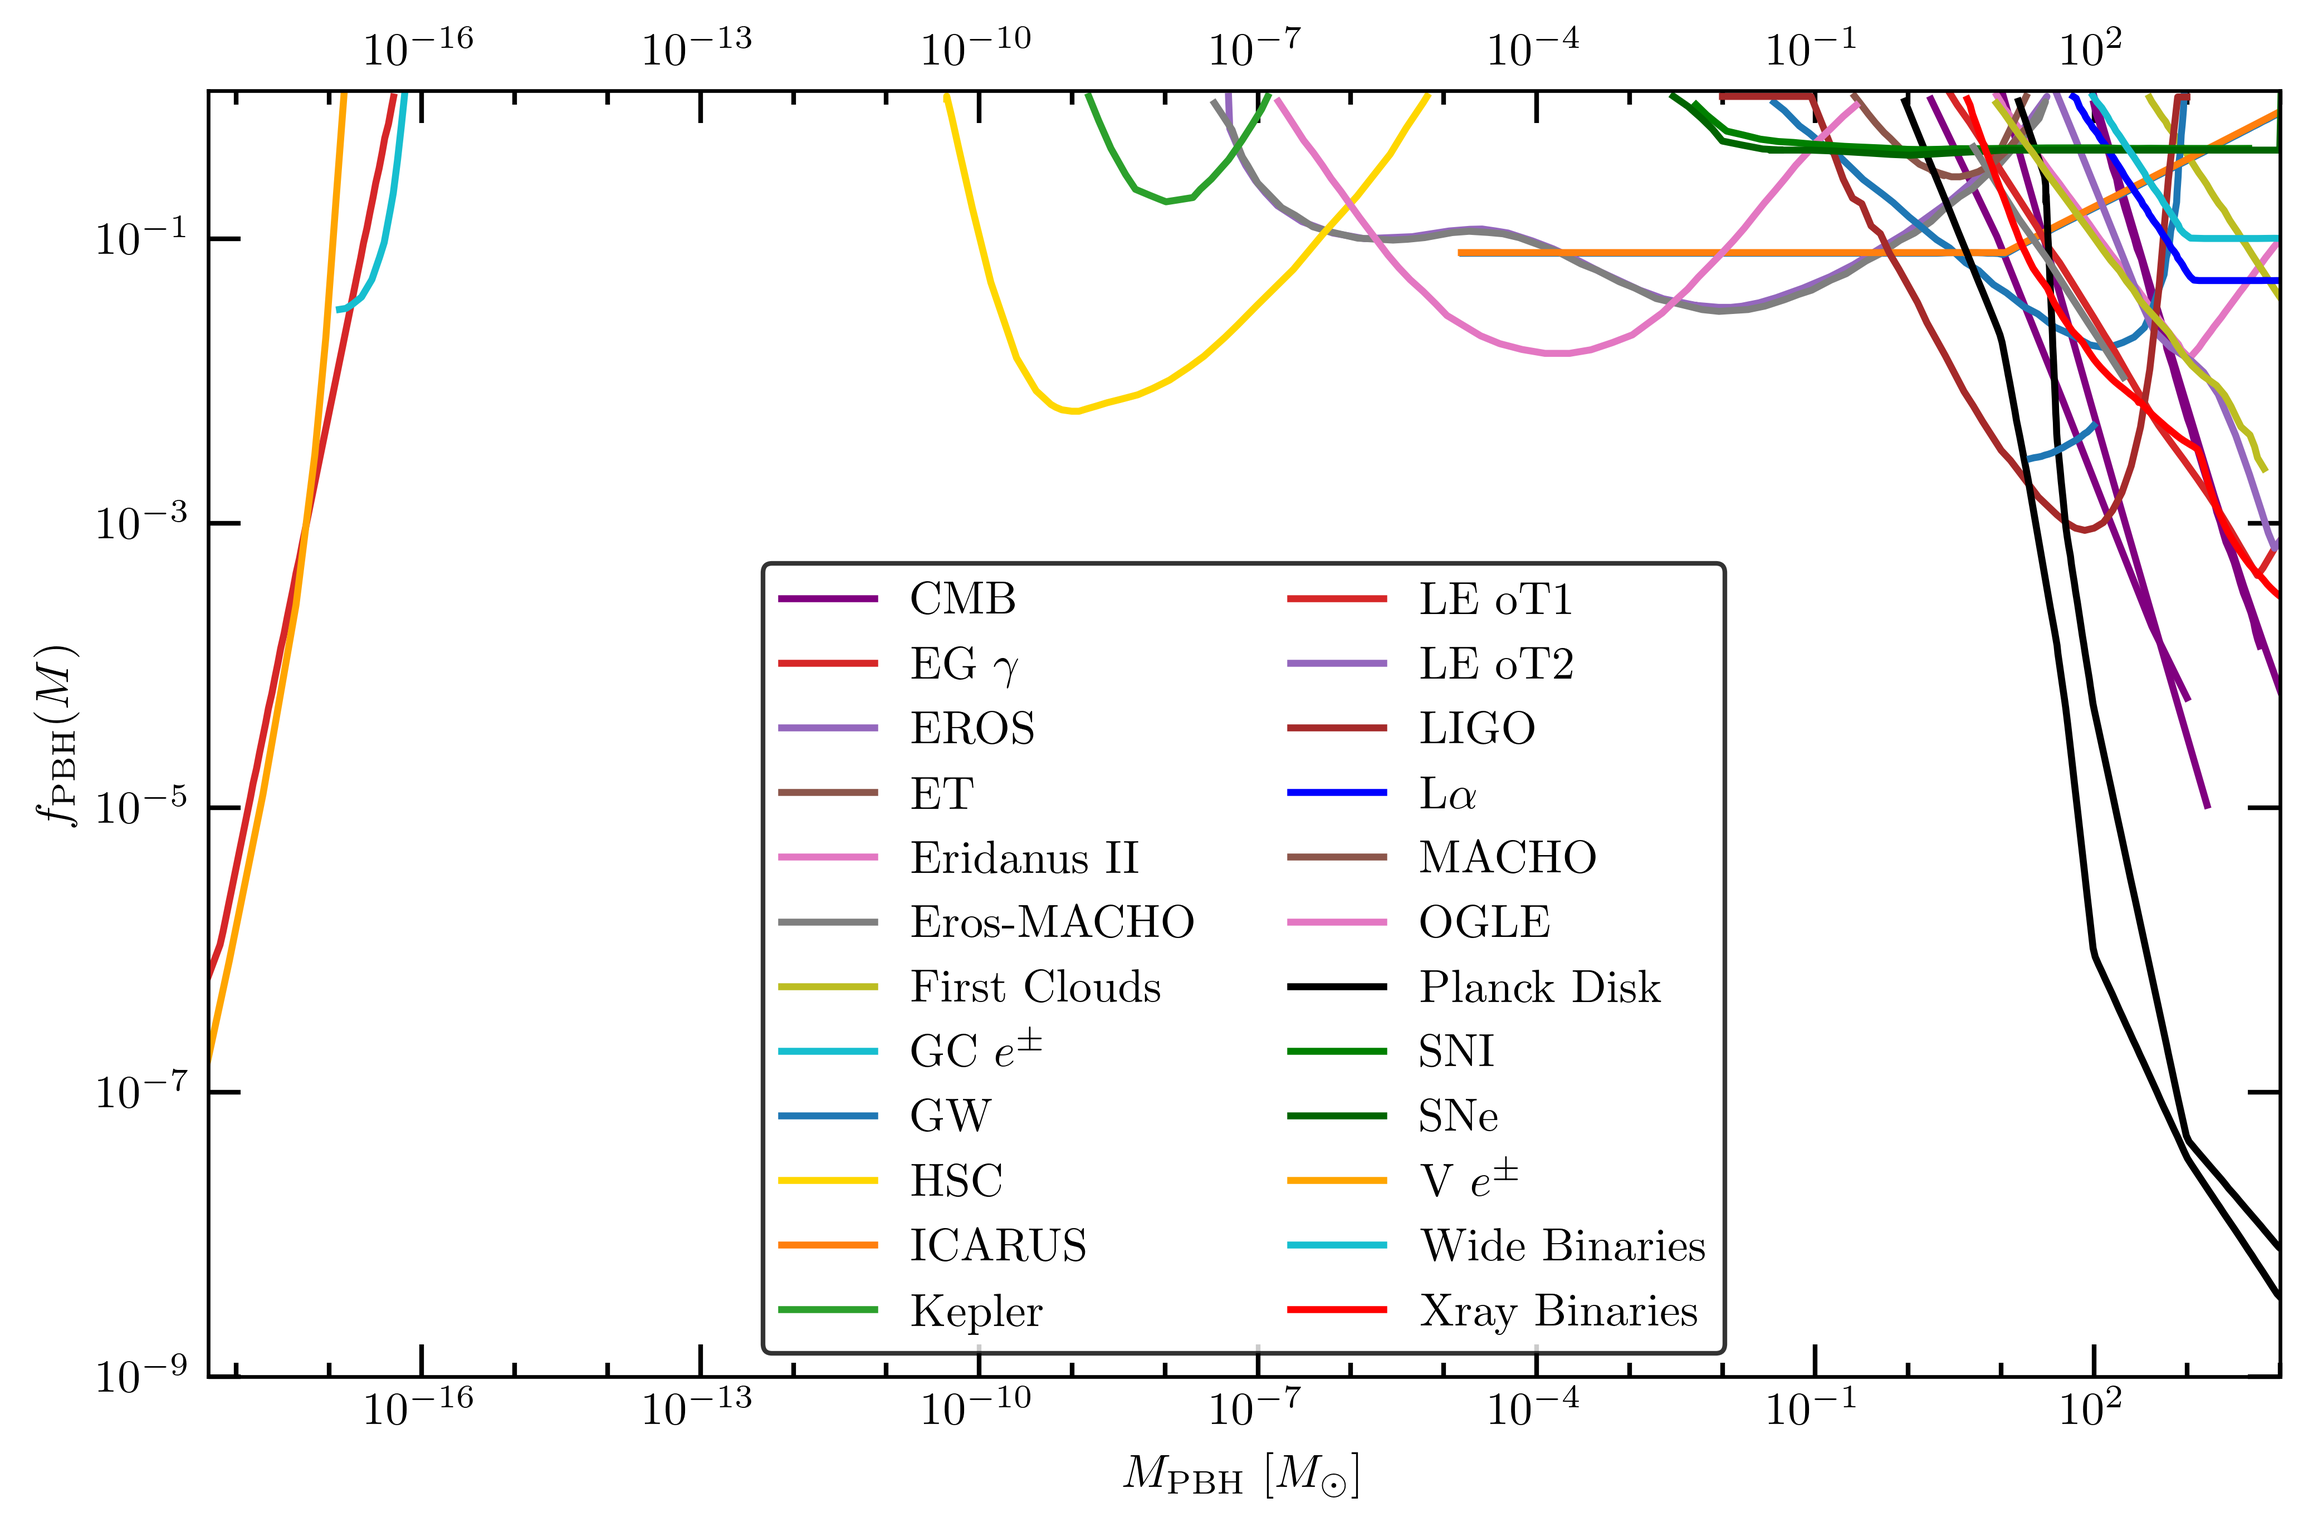
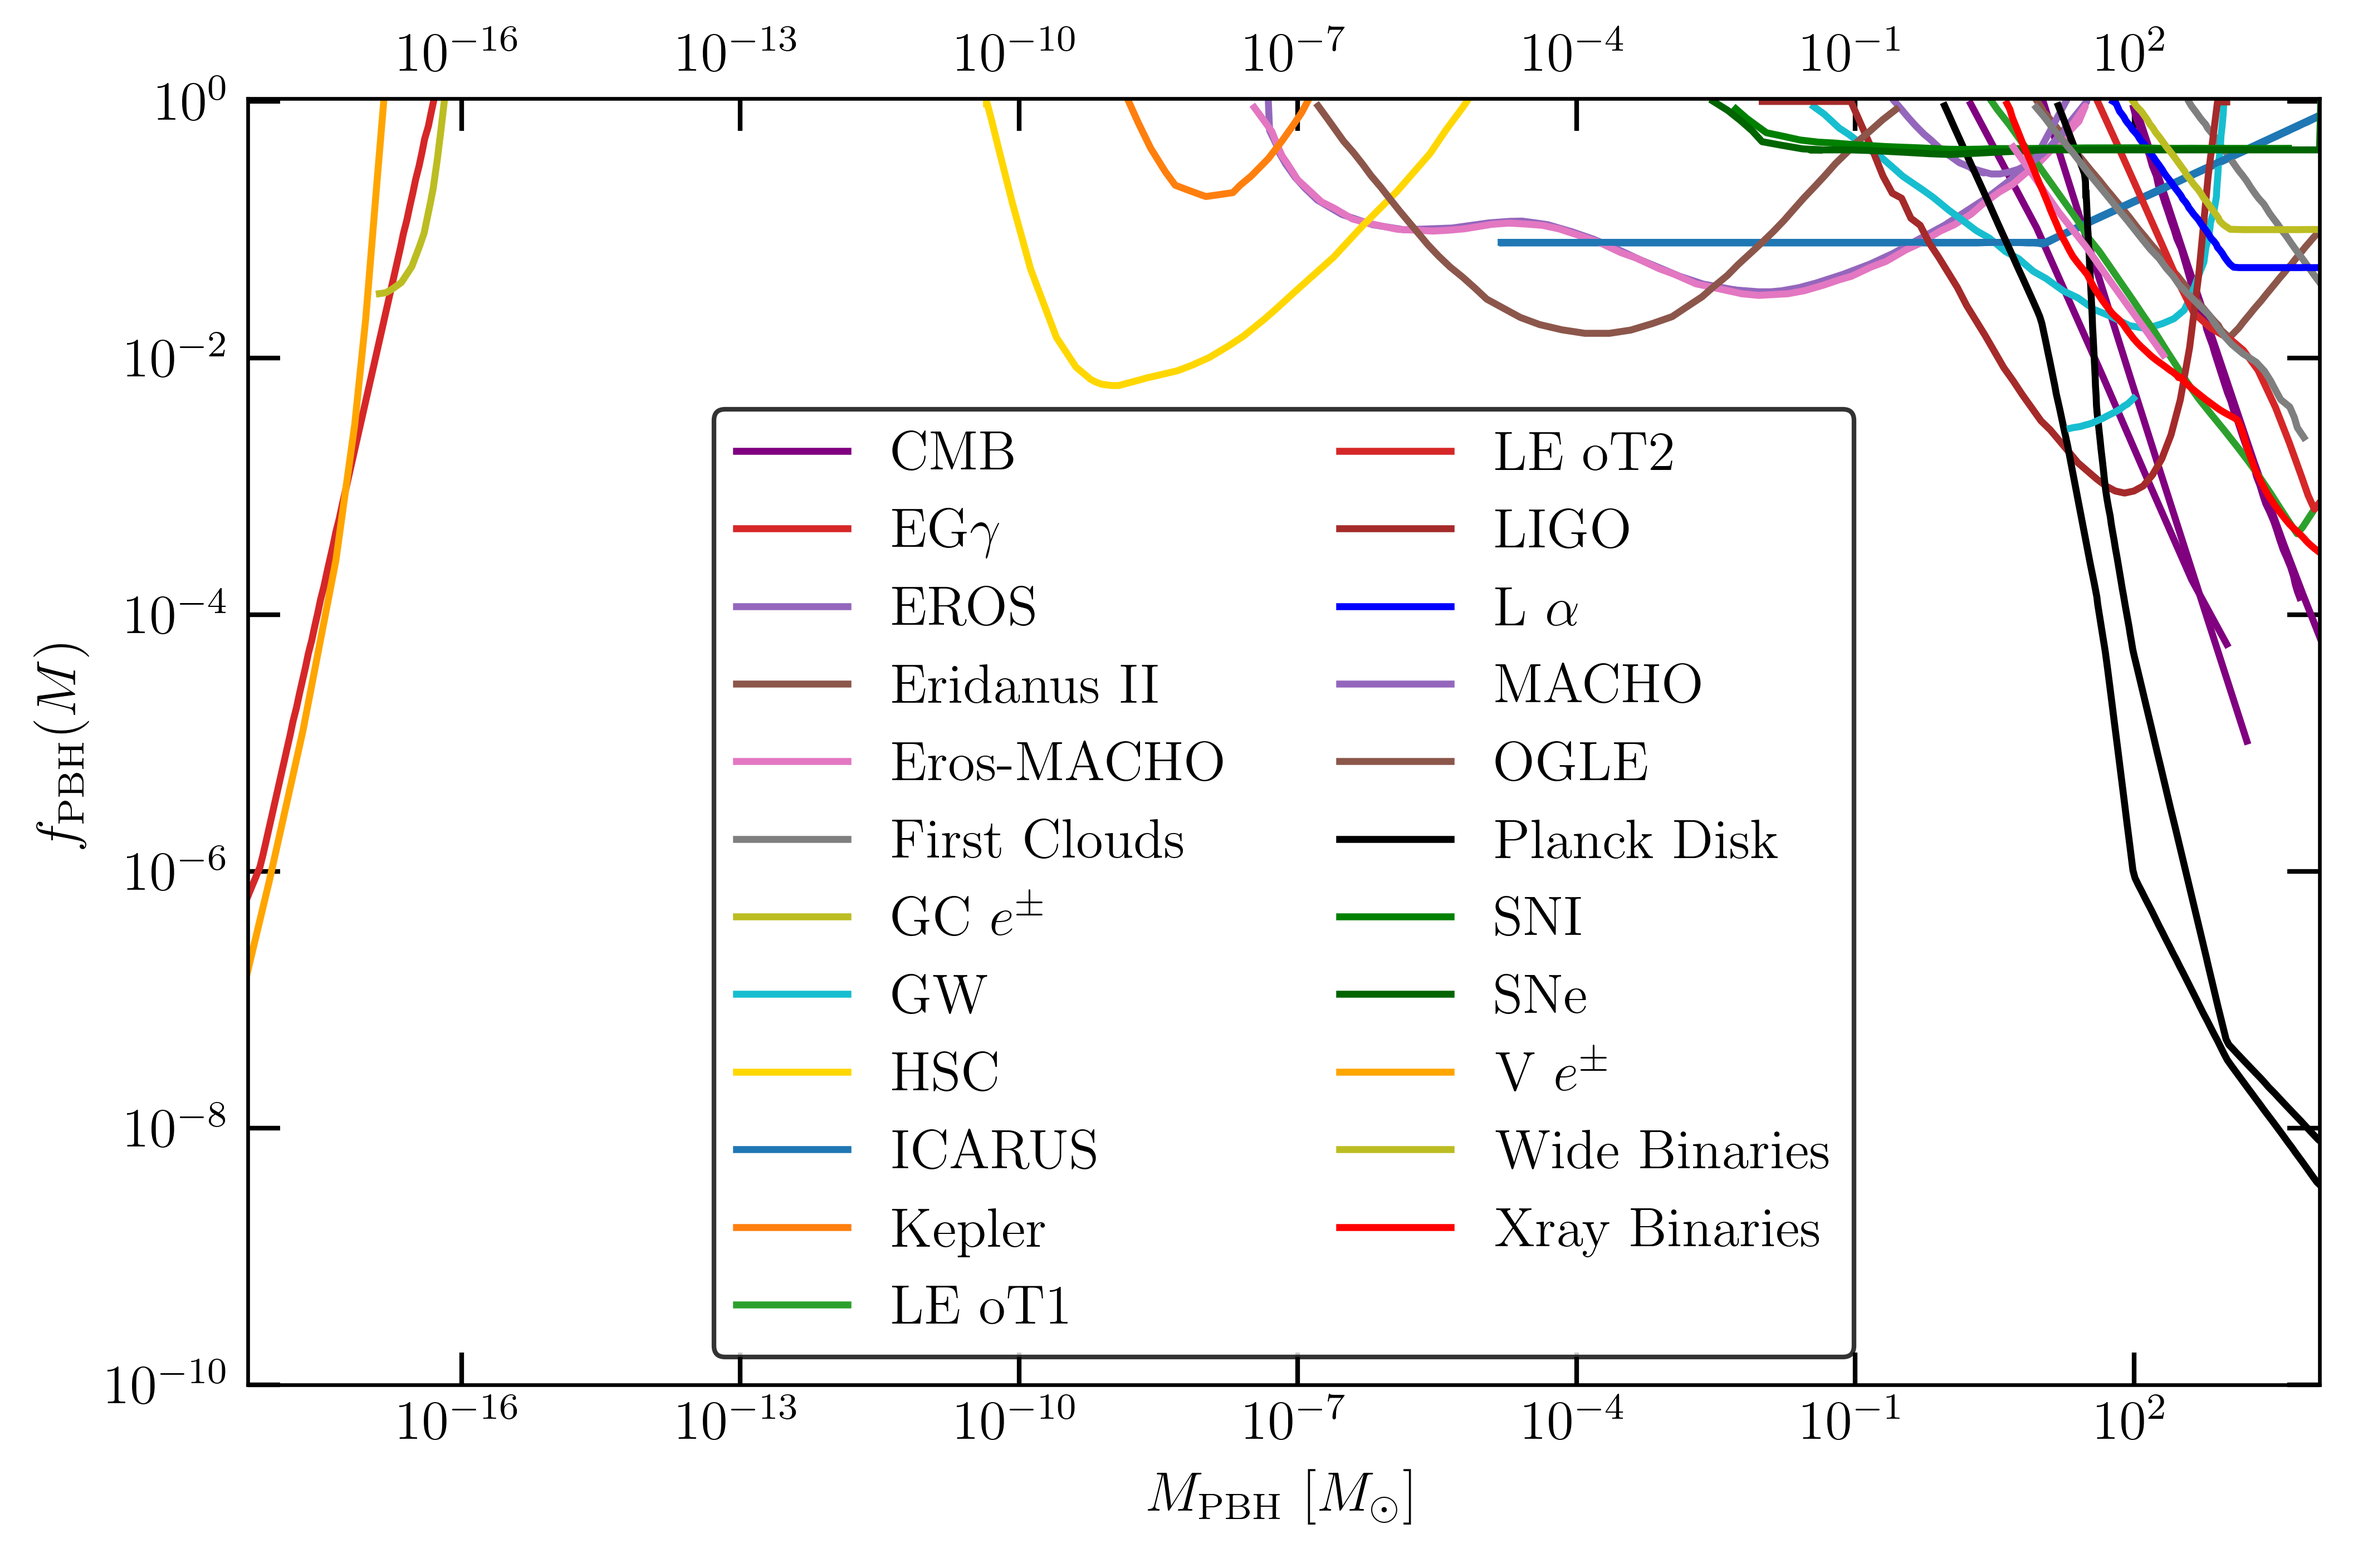
update Bounds plot

diff --git a/LISA_BoundsPBH/PlotBounds.py b/LISA_BoundsPBH/PlotBounds.py
@@ -10,8 +10,11 @@ print(FILEPATH)
 
 #Default values, overridden if you pass in command line arguments
 listfile_default = FILEPATH + "data_bounds_all.dat" 
-outfile_default = FILEPATH + "plots/PBH_bounds.png"
+# outfile_default = FILEPATH + "plots/PBH_bounds.png"
 datadir =  FILEPATH + "Data" 
+
+outfile = FILEPATH + "plots/PBH_bounds.png"
+outfile2 = FILEPATH + "plots/PBH_bounds_summary.png"
 
 from params_bounds import *
 
@@ -20,12 +23,12 @@ from params_bounds import *
 parser = argparse.ArgumentParser(description='...')
 parser.add_argument('-lf','--listfile', help='File containing list of bounds to include',
                     type=str, default=None)
-parser.add_argument('-of','--outfile', help='Filename (with extension) of output plot', 
-                    type=str, default=outfile_default)
+# parser.add_argument('-of','--outfile', help='Filename (with extension) of output plot', 
+#                     type=str, default=outfile_default)
 
 args = parser.parse_args()
 listfile = args.listfile
-outfile = args.outfile
+# outfile = args.outfile
 
 sel_files = np.loadtxt(listfile, dtype=str, unpack=True) if listfile else sel_files
 
@@ -33,15 +36,9 @@ print(f"listfile is  {listfile}")
 print(f"selected data:   {sel_files}")
 
 
+fig, ax = plt.subplots(1,1, figsize=(8,5))
 
-
-plt.figure(figsize=(8,5))
-
-ax = plt.gca()
-
-ax.set_xscale('log')
-ax.set_yscale('log')
-
+fig2, ax2 = plt.subplots(1,1, figsize=(8,5))
 
 
 for bound in sel_files:
@@ -62,32 +59,41 @@ for bound in sel_files:
         # else:
         #     plt.plot(x,y,  label=lbl)
             
-        plt.plot(x,y,  label=lbl, color=color)
+        ax.plot(x,y,  label=lbl, color=color)
+        ax2.fill_between(x, y, y2=1, color="gray", interpolate=True) 
     
     except Exception as e:
         print(f" !!!! dataset {f_bound} has been skipt >> Error:\n {e}")
     
-    
+
+
 
 
 #Plotting stuff
 
 # plt.axhspan(1, 1.5, facecolor='grey', alpha=0.5)
 
-plt.legend(ncol=2)
-   
-plt.ylim(1e-9, 1.1)
-plt.xlim(5e-19, 1e4)
+ax.legend(ncol=2)
 
-ax.tick_params(axis="x", bottom=True, top=True, labelbottom=True, labeltop=True)    
-ax.set_xticks(np.logspace(-18, 4, 23), minor=True)
-ax.set_xticklabels([], minor=True)
-    
-plt.xlabel(r'$M_\mathrm{PBH}$ [$M_\odot$]')
-plt.ylabel(r'$f_\mathrm{PBH} (M)$')
+for axs in [ax, ax2]:   
+    axs.set_ylim(1e-10, 1.05)
+    axs.set_xlim(5e-19, 1e4)
 
-plt.savefig(outfile, bbox_inches='tight', dpi=600)
+    axs.tick_params(axis="x", bottom=True, top=True, labelbottom=True, labeltop=True)    
+    axs.set_xticks(np.logspace(-18, 4, 23), minor=True)
+    axs.set_xticklabels([], minor=True)
+        
+    axs.set_xlabel(r'$M_\mathrm{PBH}$ [$M_\odot$]')
+    axs.set_ylabel(r'$f_\mathrm{PBH} (M)$')
+
+    axs.set_xscale('log')
+    axs.set_yscale('log')
+
+
+
+fig.savefig(outfile, bbox_inches='tight', dpi=600)
+fig2.savefig(outfile2, bbox_inches='tight', dpi=600)
     
-# plt.show()
+# fig.show()
 
     

diff --git a/LISA_BoundsPBH/params_bounds.py b/LISA_BoundsPBH/params_bounds.py
@@ -3,7 +3,7 @@ import argparse
 
 
 #Specify the plot style
-mpl.rcParams.update({'font.size': 10,'font.family':'serif'})
+mpl.rcParams.update({'font.size': 12,'font.family':'serif'})
 mpl.rcParams['xtick.major.size'] = 7
 mpl.rcParams['xtick.major.width'] = 1
 mpl.rcParams['xtick.minor.size'] = 3
@@ -37,12 +37,12 @@ sel_files = [
         ["DG.txt",                None,         None ],
         ## ["DLFR.txt",  ],
         ["DynamicalFriction.txt", None,         None ],
-        ["EGgamma.txt",          r"$\mathrm{EG}$ $\gamma$",     None ],
+        ["EGgamma.txt",          r"$\mathrm{EG} \gamma$",     None ],
         ## ["EGgamma_v2.txt",  ],
         ## ["EPTA.txt",  ],
         ## ["EPTAALL.txt",  ],
         ["EROS.txt",              "EROS",        None   ],
-        ["ET.txt",                 "ET",         None   ],
+        # ["ET.txt",                 "ET",         None   ],
         ["EridanusII.txt",      "Eridanus II",   None   ],
         ["Eros-Macho.txt",      "Eros-MACHO",    None   ], 
         ["FirstClouds.txt",     "First Clouds",  None   ],
@@ -61,7 +61,7 @@ sel_files = [
         ## ["LIGO.txt",  ],
         ## ["LIGO2.txt",  ],
         ["LIGOconstraintMono.txt",      "LIGO",     "brown"],
-        ["LalphaForest.txt",            r"L$\alpha$",  "blue"  ],
+        ["LalphaForest.txt",            r"L $\alpha$",  "blue"  ],
         ## ["Loebdown.txt",  ],
         ## ["Loebup.txt",  ],
         ## ["LognormalData10.txt",  ],

diff --git a/dev/abundances.py b/dev/abundances.py
@@ -6,6 +6,9 @@ from scipy.interpolate import interp1d
 import scipy.integrate as integrate
 from scipy.integrate import dblquad
 import scipy.optimize as opt
+import matplotlib.pyplot as plt
+
+import matplotlib as mpl
 
 
 import sys, os
@@ -23,7 +26,6 @@ from threshold import ClassPBHFormationMusco20
 
 
 
-import matplotlib.pyplot as plt
 
 class CLASSabundances:
     def __init__(self, 
@@ -212,6 +214,27 @@ class CLASSabundances:
 #######################################
 
 if __name__ == "__main__":
+
+
+    #Specify the plot style
+    mpl.rcParams.update({'font.size': 10,'font.family':'serif'})
+    mpl.rcParams['xtick.major.size'] = 7
+    mpl.rcParams['xtick.major.width'] = 1
+    mpl.rcParams['xtick.minor.size'] = 3
+    mpl.rcParams['xtick.minor.width'] = 1
+    mpl.rcParams['ytick.major.size'] = 7
+    mpl.rcParams['ytick.major.width'] = 1
+    mpl.rcParams['ytick.minor.size'] = 3
+    mpl.rcParams['ytick.minor.width'] = 1
+    mpl.rcParams['xtick.direction'] = 'in'
+    mpl.rcParams['ytick.direction'] = 'in'
+    mpl.rcParams['lines.linewidth'] = 1.5
+    mpl.rcParams['xtick.top'] = True
+    mpl.rcParams['ytick.right'] = True
+    mpl.rcParams['font.family'] = 'serif'
+    mpl.rc('text', usetex=True)
+
+    mpl.rcParams['legend.edgecolor'] = 'inherit'
 
 
 
